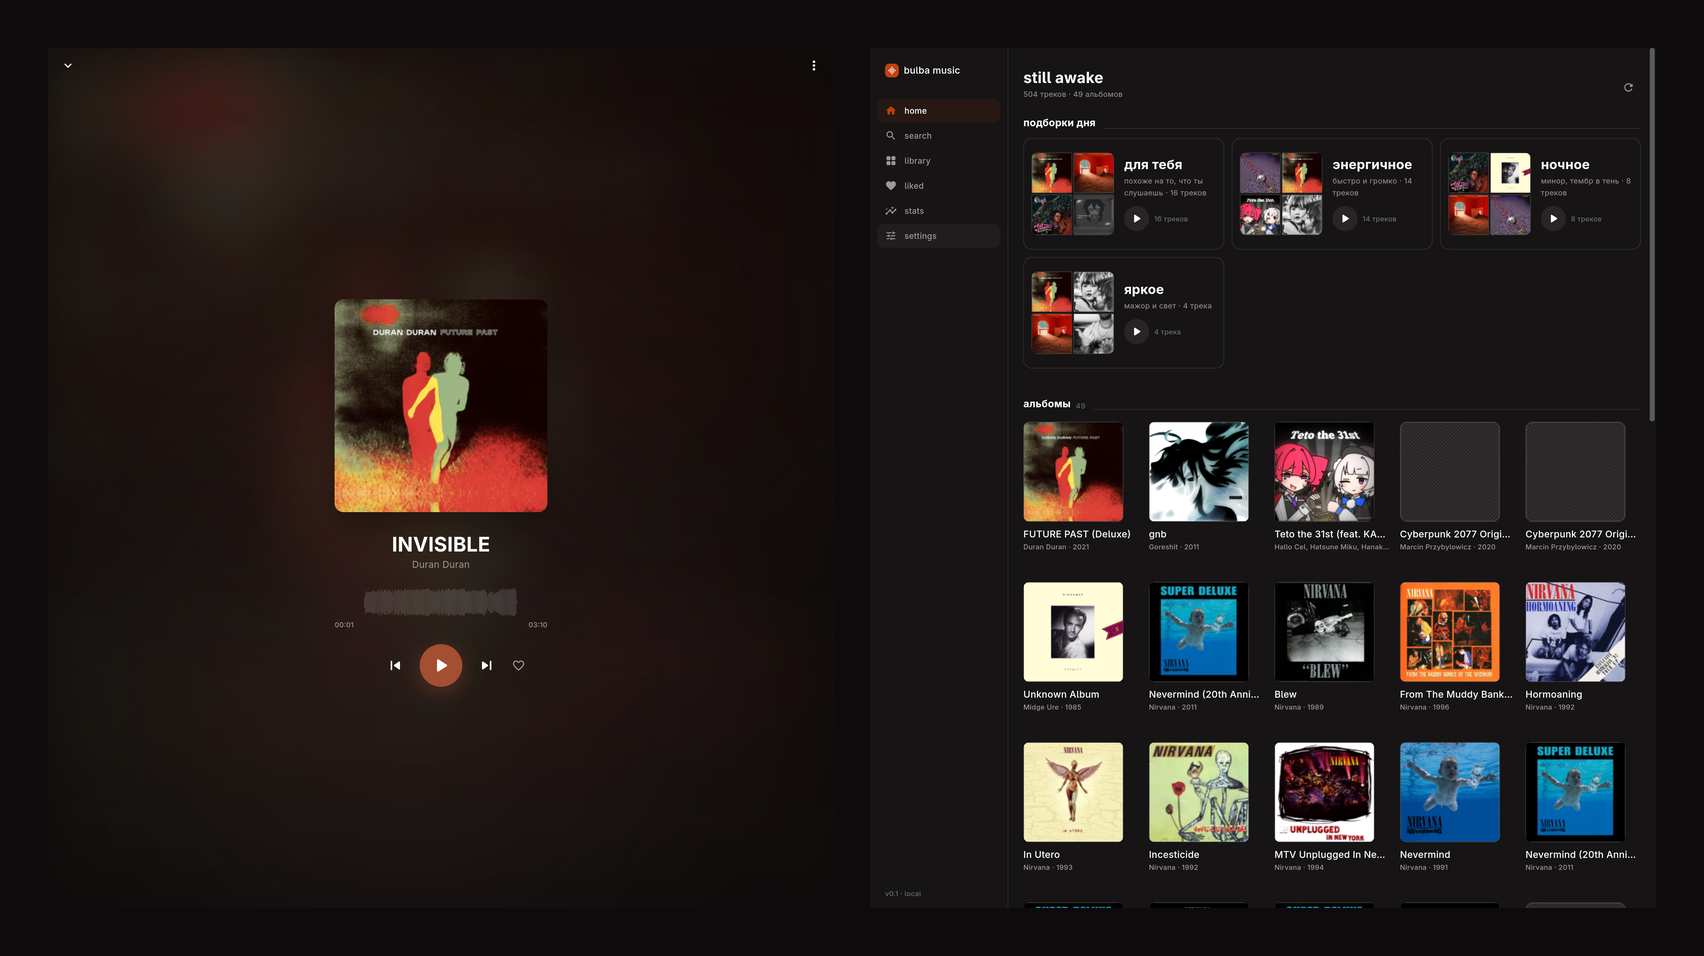
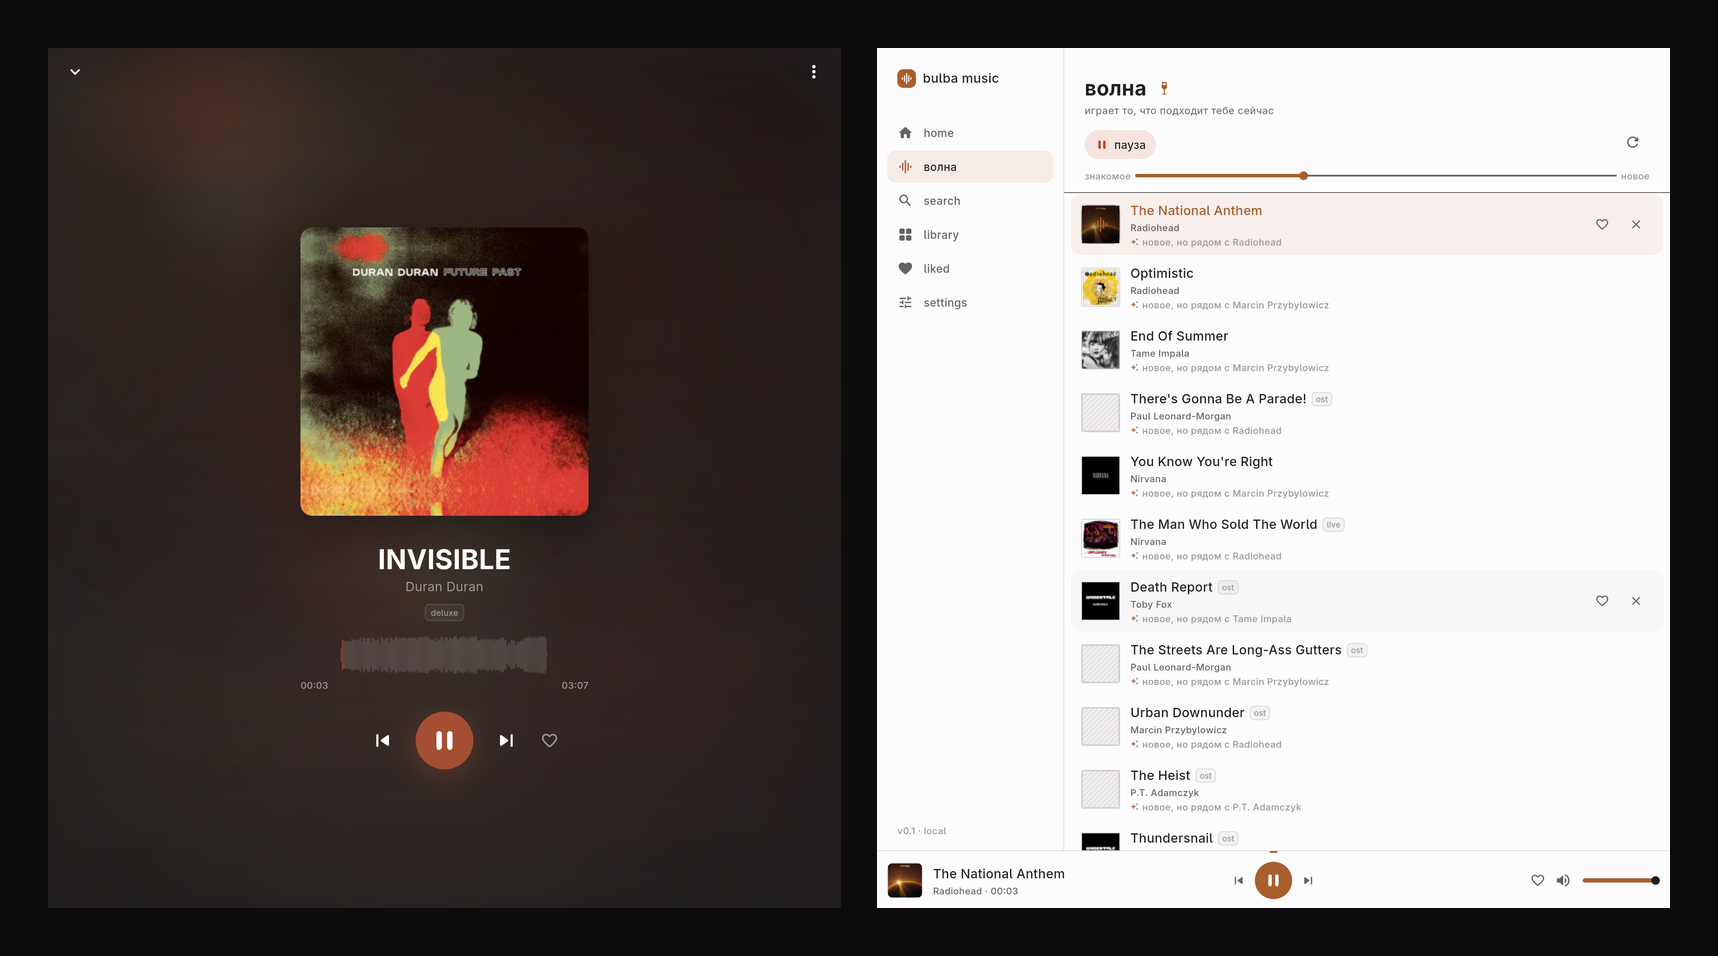
docs: new screenshots and an honest description of how the wave scores
Also a test that proves the skip penalty: a skipped track does not come back in
the next batch.

diff --git a/server/src/wave.rs b/server/src/wave.rs
@@ -568,6 +568,48 @@ mod tests {
     }
 
     #[test]
+    fn a_skipped_track_loses_its_place() {
+        let (_d, conn) = setup();
+        let user = crate::auth::local_user(&conn).unwrap();
+        // The listener plays track 1 and 2 (cluster A) and skips track 3.
+        for (track, event) in [(1i64, 0i64), (2, 0)] {
+            conn.execute(
+                "INSERT INTO play_event(ts,user_id,track_id,session_id,event,
+                    position_ms,position_ratio,source,client_id,device,offline,quality)
+                 VALUES(0,?1,?2,1,?3,0,0,0,'test','test',0,0)",
+                rusqlite::params![user, track, event],
+            )
+            .unwrap();
+        }
+        conn.execute(
+            "INSERT INTO play_event(ts,user_id,track_id,session_id,event,
+                position_ms,position_ratio,source,client_id,device,offline,quality)
+             VALUES(0,?1,3,1,2,0,0.1,0,'test','test',0,0)",
+            rusqlite::params![user],
+        )
+        .unwrap();
+
+        let req = Request {
+            user,
+            seed: Some(1),
+            exclude: &[1],
+            limit: 5,
+            novelty: 0.0,
+            seed_title: None,
+        };
+        let mut artists = HashMap::new();
+        for id in 1..=5 {
+            artists.insert(id as i64, if id <= 3 { 1 } else { 2 });
+        }
+        let got: Vec<i64> = pick(&conn, &req, &artists, &HashMap::new(), &HashMap::new())
+            .unwrap()
+            .into_iter()
+            .map(|i| i.track_id)
+            .collect();
+        assert!(!got.contains(&3), "a skipped track came back: {got:?}");
+    }
+
+    #[test]
     fn an_empty_library_returns_nothing_instead_of_failing() {
         let dir = tempfile::tempdir().unwrap();
         let db = Db::new(dir.path().join("e.db"));

diff --git a/README.md b/README.md
@@ -12,7 +12,7 @@ FLAC-мастера на диске, телефон как тонкий клие
 
 </div>
 
-<img src="docs/screenshots/hero.png" alt="Плеер и главная">
+<img src="docs/screenshots/hero.png" alt="Плеер и волна">
 
 ---
 
@@ -23,13 +23,14 @@ FLAC-мастера на диске, телефон как тонкий клие
 | **Библиотека** | FLAC навсегда мастером. Формат виден в каждой строке: `[flac]`, `[320]`, `[aac]`. Lossy никогда не перекодируется в lossy. |
 | **Индекс** | Артисты и альбомы по буквам, рейка справа с теми буквами, что реально есть. Страница артиста: альбомы по годам и то, что ты правда переслушиваешь. |
 | **Трафик** | Opus 96/128/160 по требованию, всегда из FLAC-мастера; обложки — webp 512 px (65 КБ вместо 2 МБ). |
+| **Волна** | Бесконечный поток: каждая следующая песня считается из твоих прослушиваний, дослушиваний, скипов и лайков, и каждая строка объясняет, почему она здесь. |
 | **Плеер** | Волна в обе стороны от центра, перемотка тапом, кроссфейд на двух деках по равномощной кривой, gapless. |
 | **Цвет** | Обложка — единственный источник акцента: палитра вынимается из арта и переходит на весь интерфейс за 420 мс. |
 | **Рекомендации** | Эмбеддинги из звука, четыре оси (темп, яркость, громкость, мажор/минор), дневные подборки по настроению, вкус как центроид из прослушиваний, скипов и лайков. |
 | **Аккаунты** | Двенадцать слов вместо пароля. Те же слова на телефоне — один слушатель с общей историей. В базе только хеш. |
 | **Ссылки** | `/a/8`, `/al/9` — серверные страницы, открываются в браузере телефона. |
 
-<img src="docs/screenshots/grid.png" alt="Библиотека, артист, альбом">
+<img src="docs/screenshots/grid.png" alt="Главная, библиотека, альбом">
 
 ---
 
@@ -78,13 +79,20 @@ cd ../app && flutter run -d linux
 
 ## Как считаются рекомендации
 
-1. **Кандидаты** — kNN по эмбеддингу текущего трека и по центроидам вкуса.
-2. **Скоринг** — косинус к сиду, к вкусу, знакомство с артистом, новизна,
-   совпадение по темпу, штраф за недавний скип.
-3. **Диверсификация** — не больше двух треков на артиста, без сыгранного за
-   семь дней.
-4. **Разнообразие** — MMR: релевантность минус повтор, с долей исследования.
-5. **Арка** — порядок по энергии, а не «набор треков».
+1. **Эмбеддинг** — 56 чисел из самого звука: 40 мел-полос, 12 хром, яркость,
+   шероховатость, спад и темп. Считается один раз при импорте, `dsp-v1`.
+2. **Вкус** — взвешенный центроид: дослушал и лайкнул прибавляет, скип
+   вычитает.
+3. **Скоринг** — косинус к сиду и к вкусу, бонус за новое (ползунок «знакомое ↔
+   новое»), штраф за переигранное, за скип и за сыгранное меньше суток назад.
+4. **Почему** — побеждающий член формулы становится строкой под треком
+   («новое, но рядом с Radiohead», «рядом с «INVISIBLE» по звуку»).
+5. **Диверсификация** — не больше двух треков на артиста и одного на песню,
+   даже если она есть на пяти сборниках.
+
+Всё это живёт в `/api/recs/wave` и работает на одного слушателя так же, как на
+миллион: без коллаборативных данных рекомендация честно опирается на звук и на
+твоё поведение.
 
 Вкус обновляется от прослушиваний, скипов раньше 20 % и лайков. Скип весит
 больше лайка: поведение честнее, чем кнопка.
